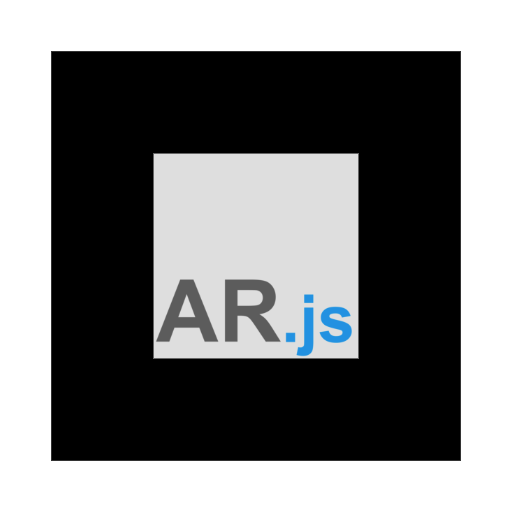
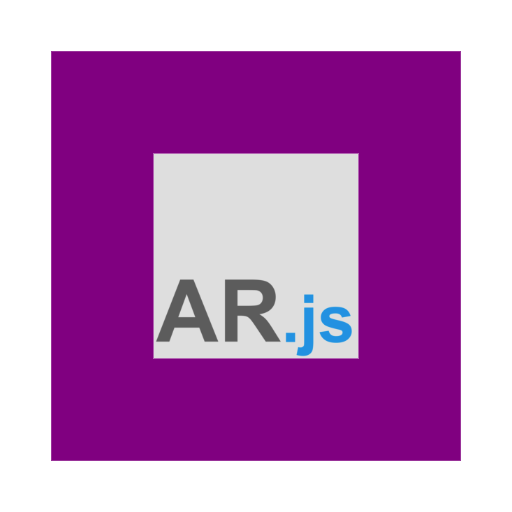
changed marker color

diff --git a/index.html b/index.html
@@ -11,8 +11,8 @@
 
 <body style='margin: 0px; overflow: scroll;'>
   <a-scene embedded arjs='patternRatio: 0.5'>
-    <a-marker type='pattern' url='https://raw.githubusercontent.com/vladled/AR-1/main/pattern-marker%20(1).patt'>
-      <a-box position='0 0,5 0' material='color:green; '></a-box>
+    <a-marker type='pattern' url='https://raw.githubusercontent.com/vladislav-ruban/ar1/main/pattern-marker.patt'>
+      <a-box position='0 0,5 0' material='color:purple; '></a-box>
     </a-marker>
     <a-entity camera> </a-entity>
   </a-scene>
